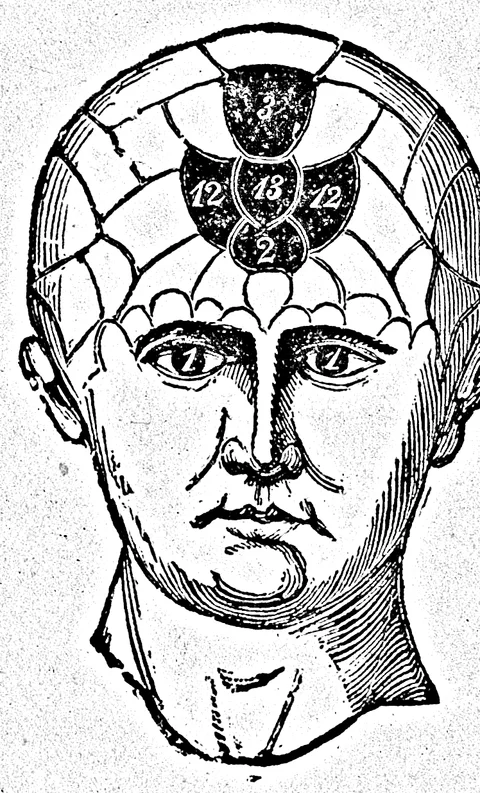
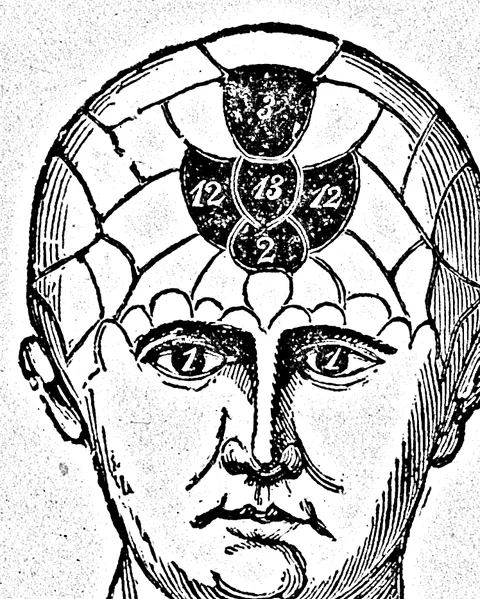
fix(web): §1 triptych — the three head engravings now match in height
Front/top/profile were three different natural crops (AR 0.61/0.96/0.80)
because they're inherently different subjects — front and profile include
neck+chin, top is a crown seen from above with nothing below it. items-end
on the grid papered over it by bottom-aligning, but the images themselves
were visibly different sizes.

Recropped all three to a common AR 0.80 (matching profile as-shot):
front tightened to drop the neck/collar and keep crown-to-chin (no content
lost — the excluded region was empty collar/shoulder); top extended with a
matched paper-tone margin top/bottom (an above-the-head skull cap has
nothing to crop toward, so padding is the only way to reach a taller AR
without inventing content). Grid alignment switched to items-start now
that the three are genuinely uniform.

Verified: all three render at 150x187-188 (1px rounding), full head
content visible on each, no letterboxing.

diff --git a/web/src/app/page.tsx b/web/src/app/page.tsx
@@ -199,7 +199,7 @@ function Wedge() {
             because their business is keeping you inside their walls.
           </p>
           <figure className="mt-10">
-            <div className="grid grid-cols-3 items-end gap-4 bg-paper">
+            <div className="grid grid-cols-3 items-start gap-4 bg-paper">
               {[
                 { src: "/art/head-front.webp", tool: "what Claude knows" },
                 { src: "/art/head-top.webp", tool: "what ChatGPT knows" },
